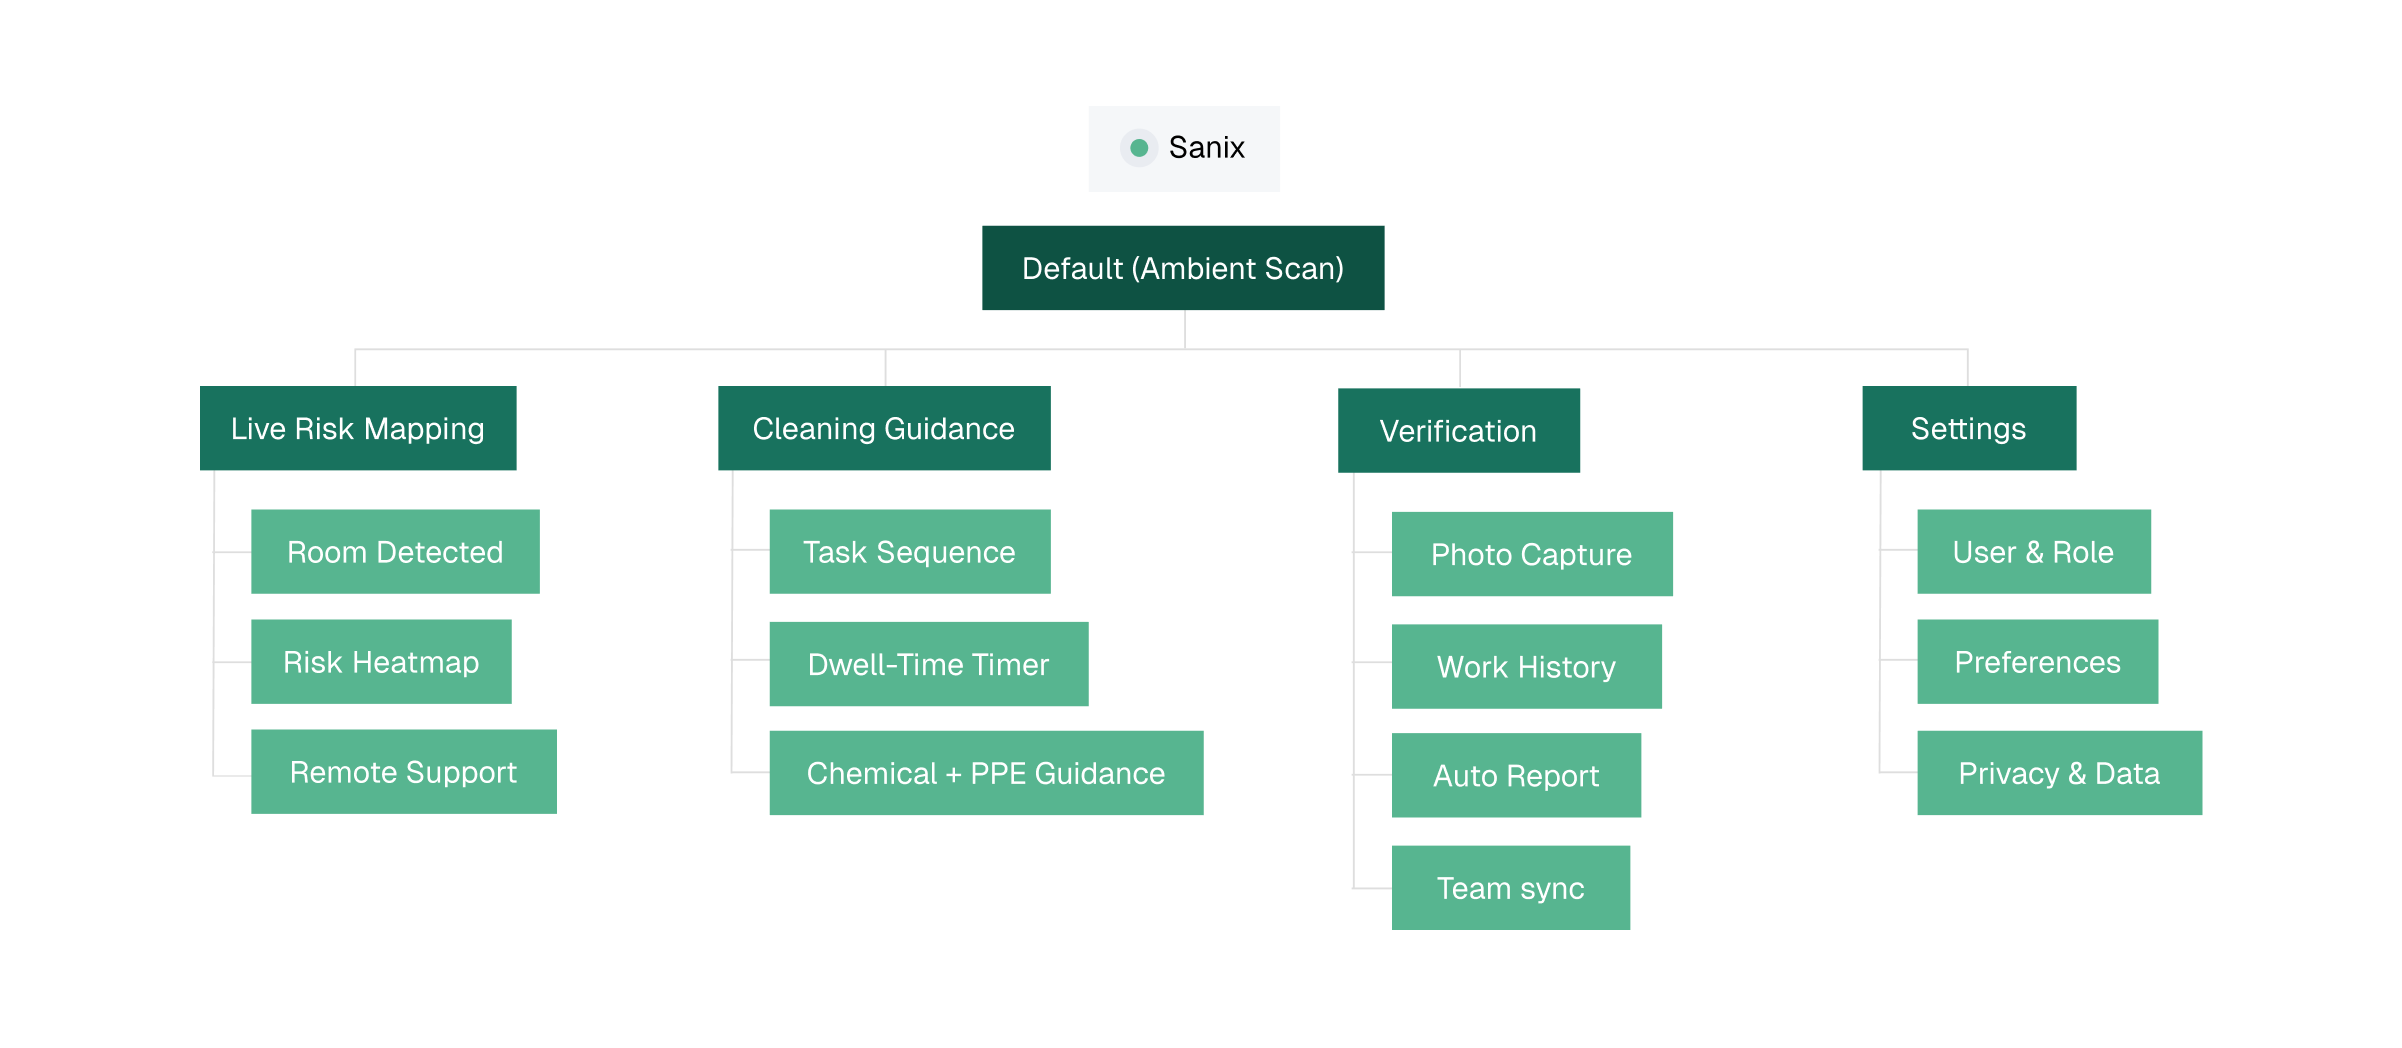
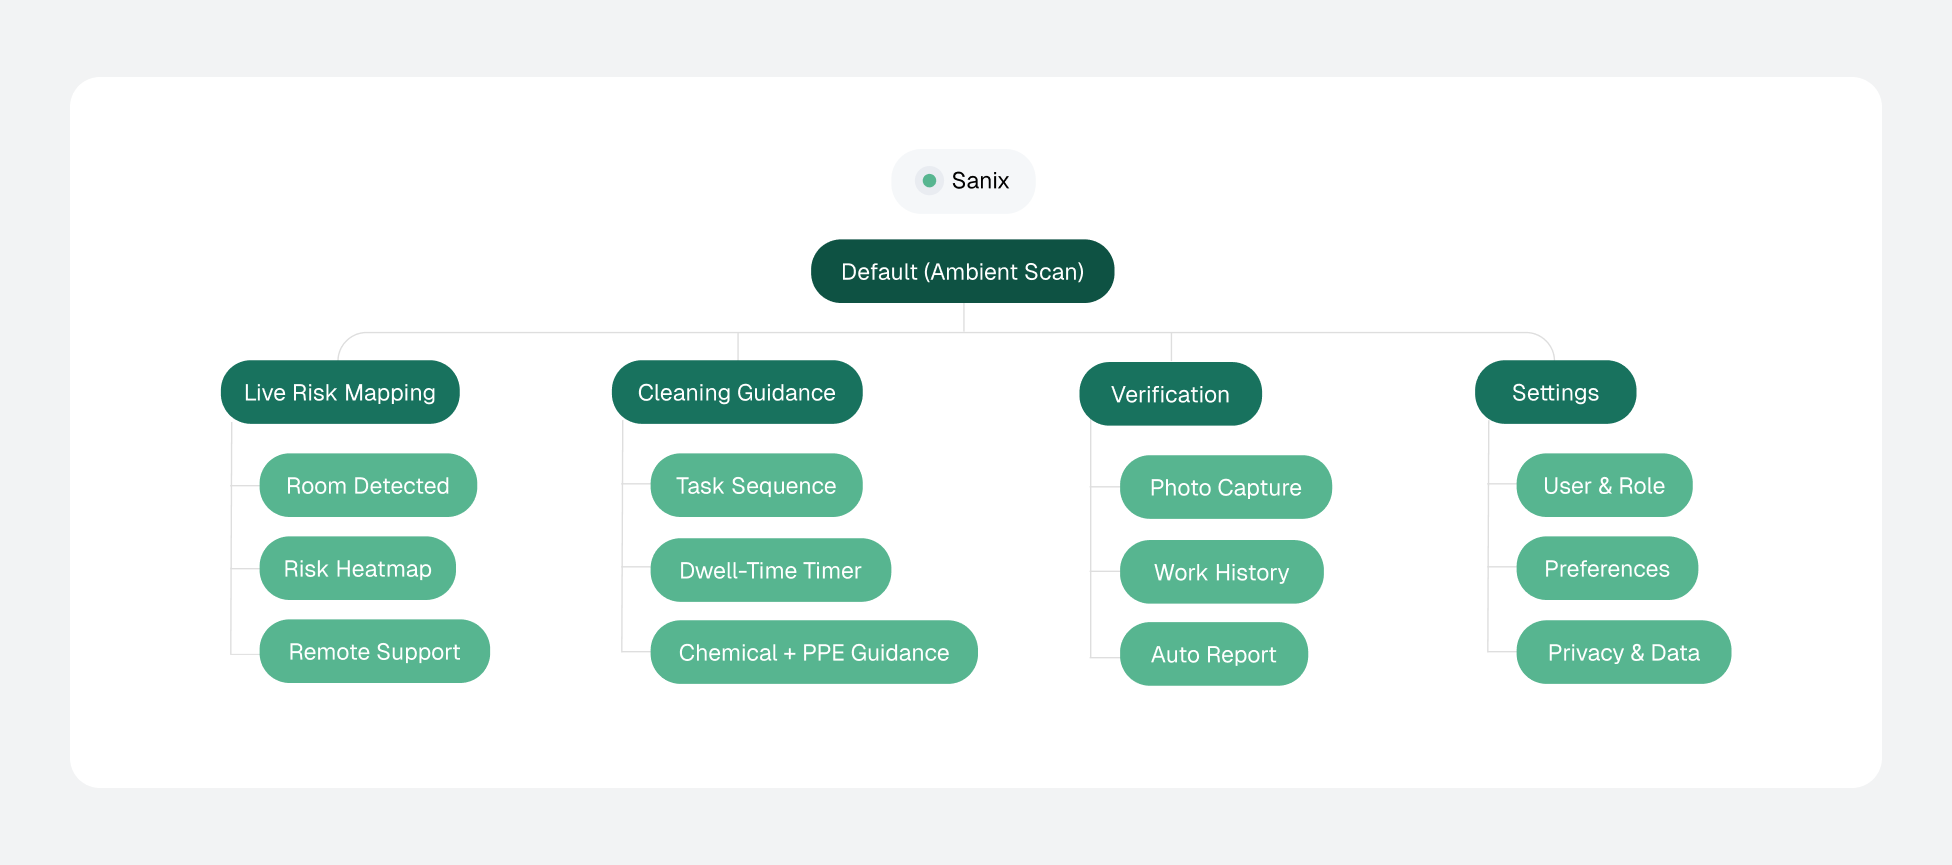
may 2 commit

diff --git a/sanix.html b/sanix.html
@@ -269,9 +269,9 @@
             display: grid;
             grid-template-columns: 1fr 1fr 1fr;
             gap: 1.5rem;
-            margin-bottom: 5rem;
+            margin-bottom: 1.5rem;
             background: linear-gradient(135deg, #0E5243, #222);
-            padding: 2rem;
+            padding: 2.7rem;
         }
 
         .feature-item {
@@ -291,23 +291,24 @@
         }
 
         .feature-num {
-            font-family: 'Geist Mono', monospace;
             font-size: 0.72rem;
-            color: #a7a7a7;
+            color: #838383;
             letter-spacing: 0.06em;
         }
 
         .feature-name {
-            font-size: 1.2rem;
+            margin-top: 1rem;
+            margin-bottom: -0.3rem;
+            font-size: 1.1rem;
             font-weight: 500;
             letter-spacing: -0.02em;
             color: #33363F;
         }
 
         .feature-desc {
-            font-size: 0.88rem;
-            line-height: 1.6;
-            color: #666;
+            font-size: 0.7rem;
+            line-height: 1.4;
+            color: #434649;
         }
 
         .feature-img {
@@ -415,10 +416,12 @@
         /* ── STAT TABS ── */
         .stat-tabs-section {
             display: grid;
-            grid-template-columns: 0.55fr 1.6fr;
+            grid-template-columns: 0.64fr 1.6fr;
             gap: 1.5rem;
             margin-bottom: 4rem;
             align-items: stretch;
+            background: #F2F3F4;
+            padding: 2.7rem;
         }
 
         .stat-tabs-left {
@@ -428,8 +431,8 @@
         }
 
         .stat-tab {
-            background: #F2F3F4;
-            padding: 2rem 2rem 1.6rem;
+            background: #ffffff;
+            padding: 2rem 2rem 1.4rem;
             cursor: pointer;
             transition: background 0.25s ease, color 0.25s ease;
             position: relative;
@@ -439,6 +442,7 @@
             flex-direction: column;
             justify-content: space-between;
             overflow: hidden;
+            border-radius: 25px;
         }
 
         .stat-tabs-left .stat-tab:first-child {
@@ -450,10 +454,10 @@
         }
 
         .stat-tab-desc {
-            font-size: 0.88rem;
+            font-size: 0.85rem;
             line-height: 1.5;
             color: #666;
-            max-width: 320px;
+            max-width: none;
             margin-bottom: 1.4rem;
             transition: color 0.25s ease;
         }
@@ -487,6 +491,7 @@
         .stat-tabs-right {
             overflow: hidden;
             position: relative;
+            border-radius: 25px;
         }
 
         .stat-tabs-right img {
@@ -969,13 +974,8 @@
                 <p class="section-body">User research revealed that the cleaning stage creates the highest cognitive and emotional load, as frontline workers operate without real-time visibility into contamination risk.</p>
             </div>
 
-
-            <div class="img-full img-tight" id="research">
-                <img src="assets/images/Website_Images/Sanix/2.png" alt="Sanix">
-            </div>
-
             <div class="img-full" id="research">
-                <img src="assets/images/Website_Images/Sanix/3.png" alt="Sanix">
+                <img src="assets/images/Website_Images/Sanix/3-1.png" alt="Sanix">
             </div>
 
             <div class="text-section" id="research">
@@ -991,24 +991,19 @@
                     </div>
                 </div>
                 <div class="competitor-panel active" id="panel-competitor">
-                    <img src="assets/images/Website_Images/Sanix/4-2.png" alt="Competitor Analysis">
+                    <img src="assets/images/Website_Images/Sanix/4-3.png" alt="Competitor Analysis">
                 </div>
                 <div class="competitor-panel" id="panel-feature">
-                    <img src="assets/images/Website_Images/Sanix/4.png" alt="Feature Comparison">
+                    <img src="assets/images/Website_Images/Sanix/4-4.png" alt="Feature Comparison">
                 </div>
-            </div>
-
-            <div class="img-full img-tight" id="research">
-                <img src="assets/images/Website_Images/Sanix/8.png" alt="Sanix">
-            </div>
-            <div class="img-full" id="research">
-                <img src="assets/images/Website_Images/Sanix/last.png" alt="Sanix">
             </div>
 
 
             <div class="text-section" id="solutions">
                 <p class="section-label">[ Solutions ]</p>
                 <h2 class="section-title">3 Key Features</h2>
+                <p class="section-body">Sanix transforms cleaning from a reactive, manual process into a proactive, intelligence-driven system. By combining real-time environmental sensing, computer vision, and adaptive guidance, the platform helps workers identify, prioritize, and verify sanitation tasks with greater precision and confidence.</p>
+
             </div>
 
             <div class="feature-list">
@@ -1025,7 +1020,7 @@
                         <span class="feature-num">02</span>
                         <h3 class="feature-name">Cleaning Verification</h3>
                     </div>
-                    <p class="feature-desc">Uses image capture and AI analysis to document cleaning completion, generate proof of cleaning quality, and automatically support compliance reporting.</p>
+                    <p class="feature-desc">Uses image capture and AI analysis to document cleaning completion, generate proof of cleaning quality, and support compliance reporting.</p>
                     <img src="assets/images/Website_Images/Sanix/7.png" alt="Cleaning Verification" class="feature-img">
                 </div>
                 <div class="feature-item">
@@ -1033,14 +1028,21 @@
                         <span class="feature-num">03</span>
                         <h3 class="feature-name">Adaptive Cleaning Guidance</h3>
                     </div>
-                    <p class="feature-desc">Guides workers through cleaning based on real-time contamination risk and room priority, helping them clean critical areas first and manage time pressure.</p>
+                    <p class="feature-desc">Guides through cleaning based on real-time contamination risk and room priority, helping them clean critical areas first and manage time pressure.</p>
                     <img src="assets/images/Website_Images/Sanix/6.png" alt="Adaptive Cleaning Guidance" class="feature-img">
                 </div>
             </div>
 
+            <div class="img-full img-tight" id="research">
+                <img src="assets/images/Website_Images/Sanix/8.png" alt="Sanix">
+            </div>
+            <div class="img-full" id="research">
+                <img src="assets/images/Website_Images/Sanix/last.png" alt="Sanix">
+            </div>
+
             <div class="text-section" id="solutions">
                 <h2 class="section-title">Information Architecture</h2>
-                <p class="section-body">Sanix is designed around an Ambient Scan as the default state, passively capturing environmental data without requiring user input. This allows workers to stay focused on their tasks while the system continuously detects room context and contamination risk in the background. The information architecture is structured into four core areas—Live Risk Mapping, Cleaning Guidance, Verification, and Settings—aligning directly with the natural workflow of CVS workers. By organizing features around their existing mental model, the system minimizes navigation, reduces cognitive load, and supports quick, in-the-moment decision-making.</p>
+                <p class="section-body">Sanix is designed around an Ambient Scan as the default state, passively capturing environmental data without requiring user input. This allows workers to stay focused on their tasks while the system continuously detects room context and contamination risk in the background.</p>
             </div>
             <div class="img-full">
                 <img src="assets/images/Website_Images/Sanix/5.png" alt="Sitemap">
